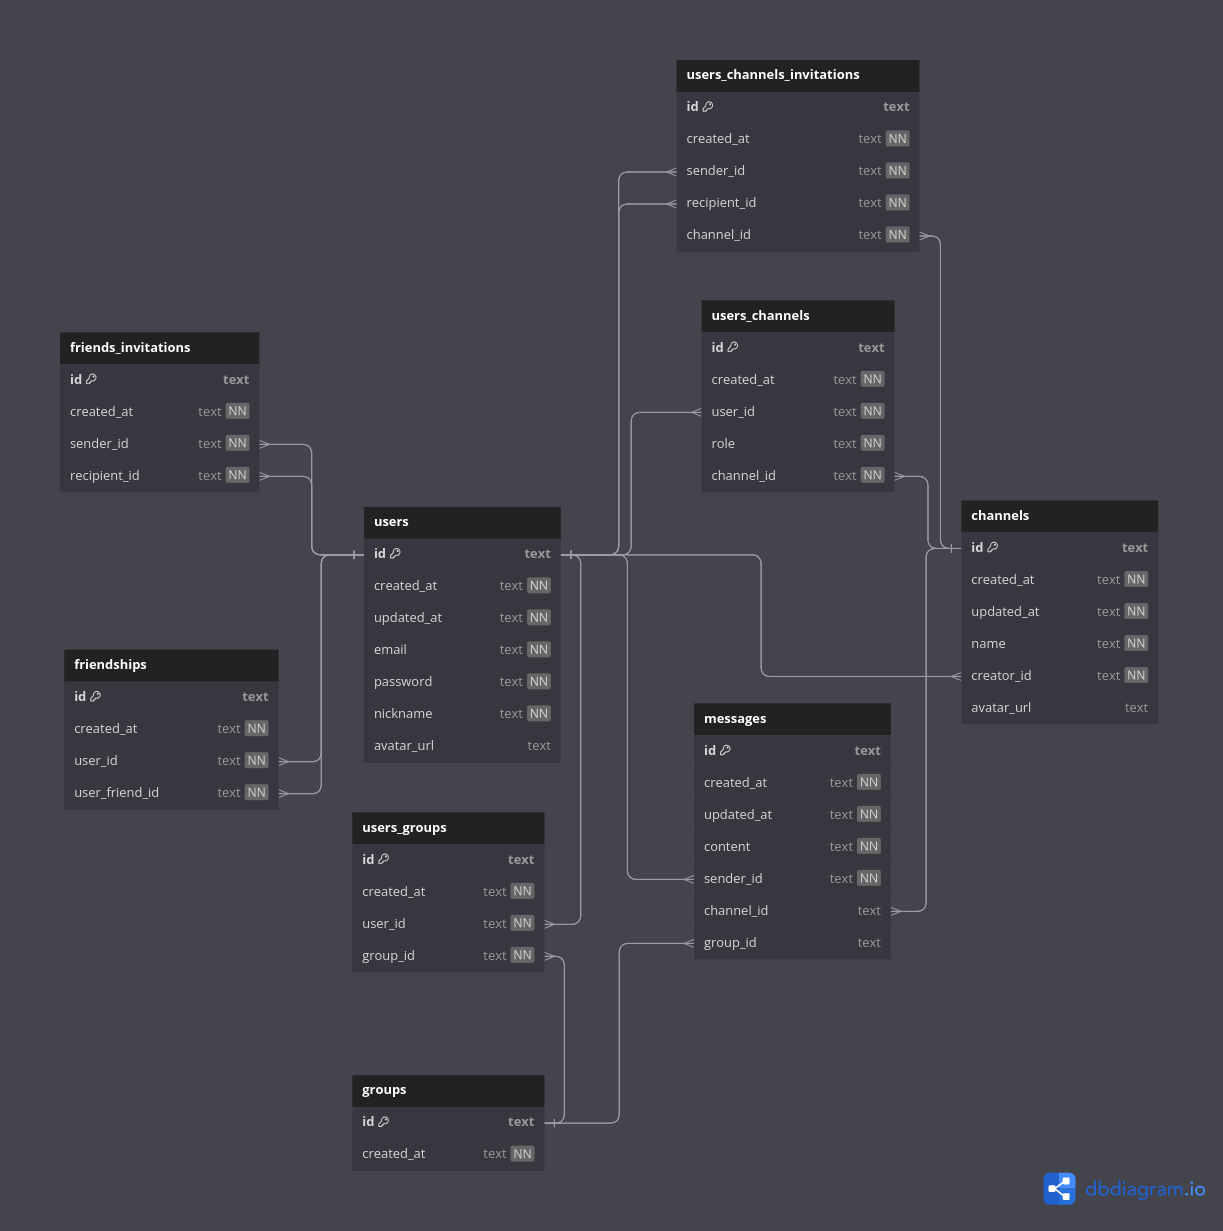
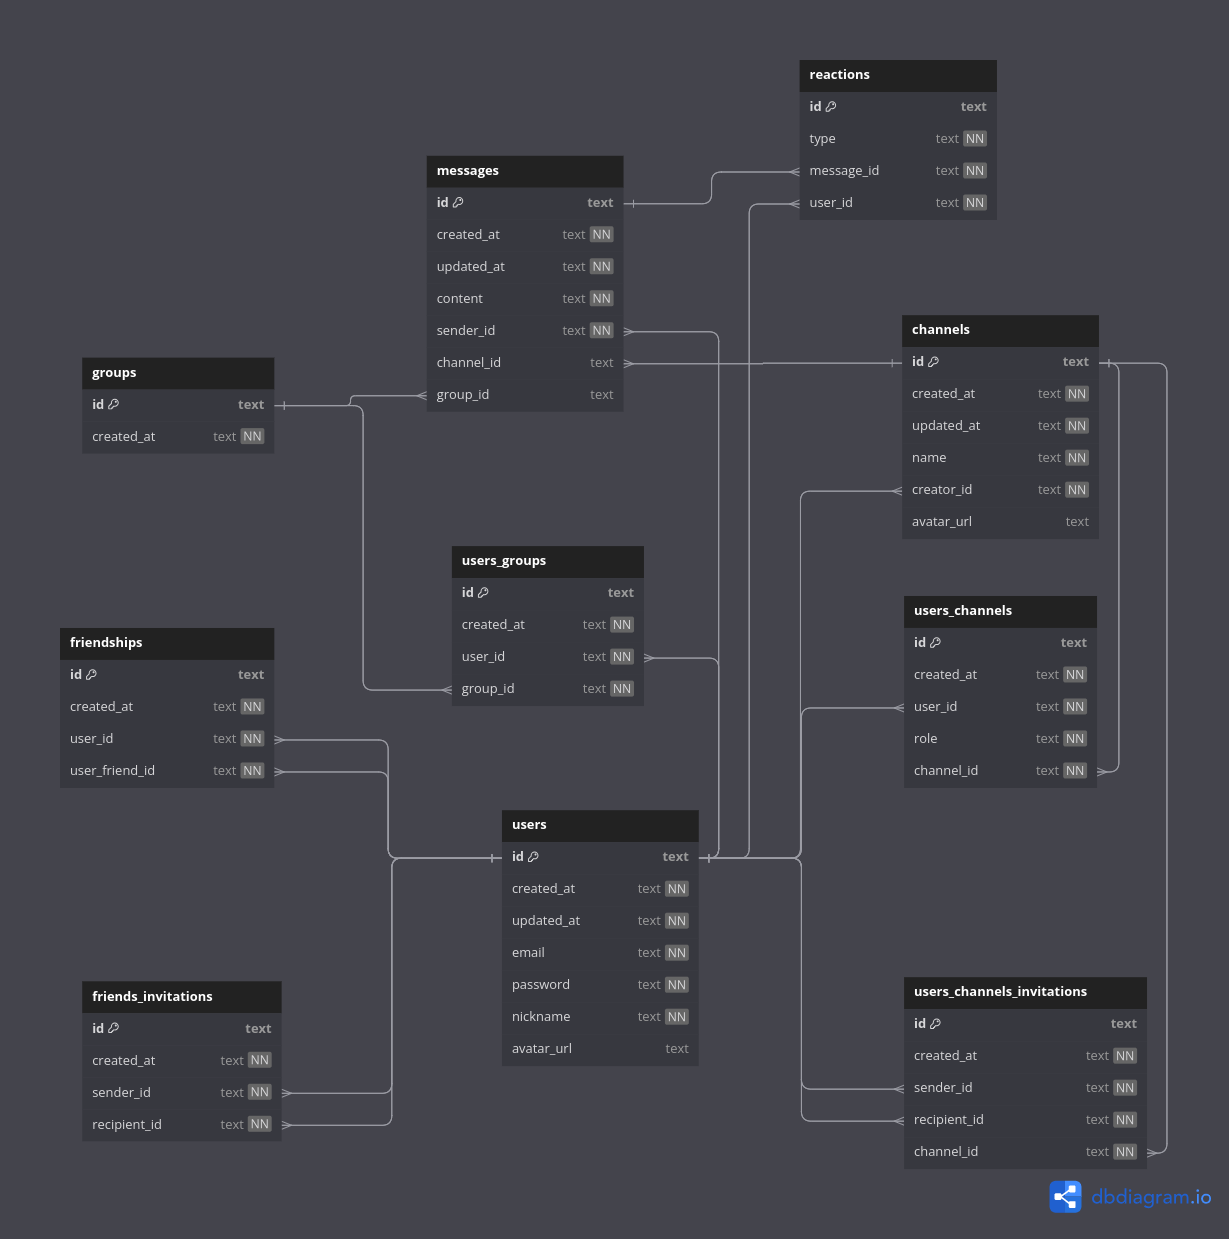
add database diagram to readme

diff --git a/README.md b/README.md
@@ -7,9 +7,12 @@
 
 ![Schema](docs/resources/system-diagram.png)
 
+### Database diagram:
+
+![Schema](docs/resources/db-schema.png)
+
 ### Docs
 
 * [Setup](docs/setup.md)
 * [Message Protocol](docs/messageProtocol.md)
-* [Database Schema](docs/databaseSchema.md)
 * [TODO](TODO.md)
